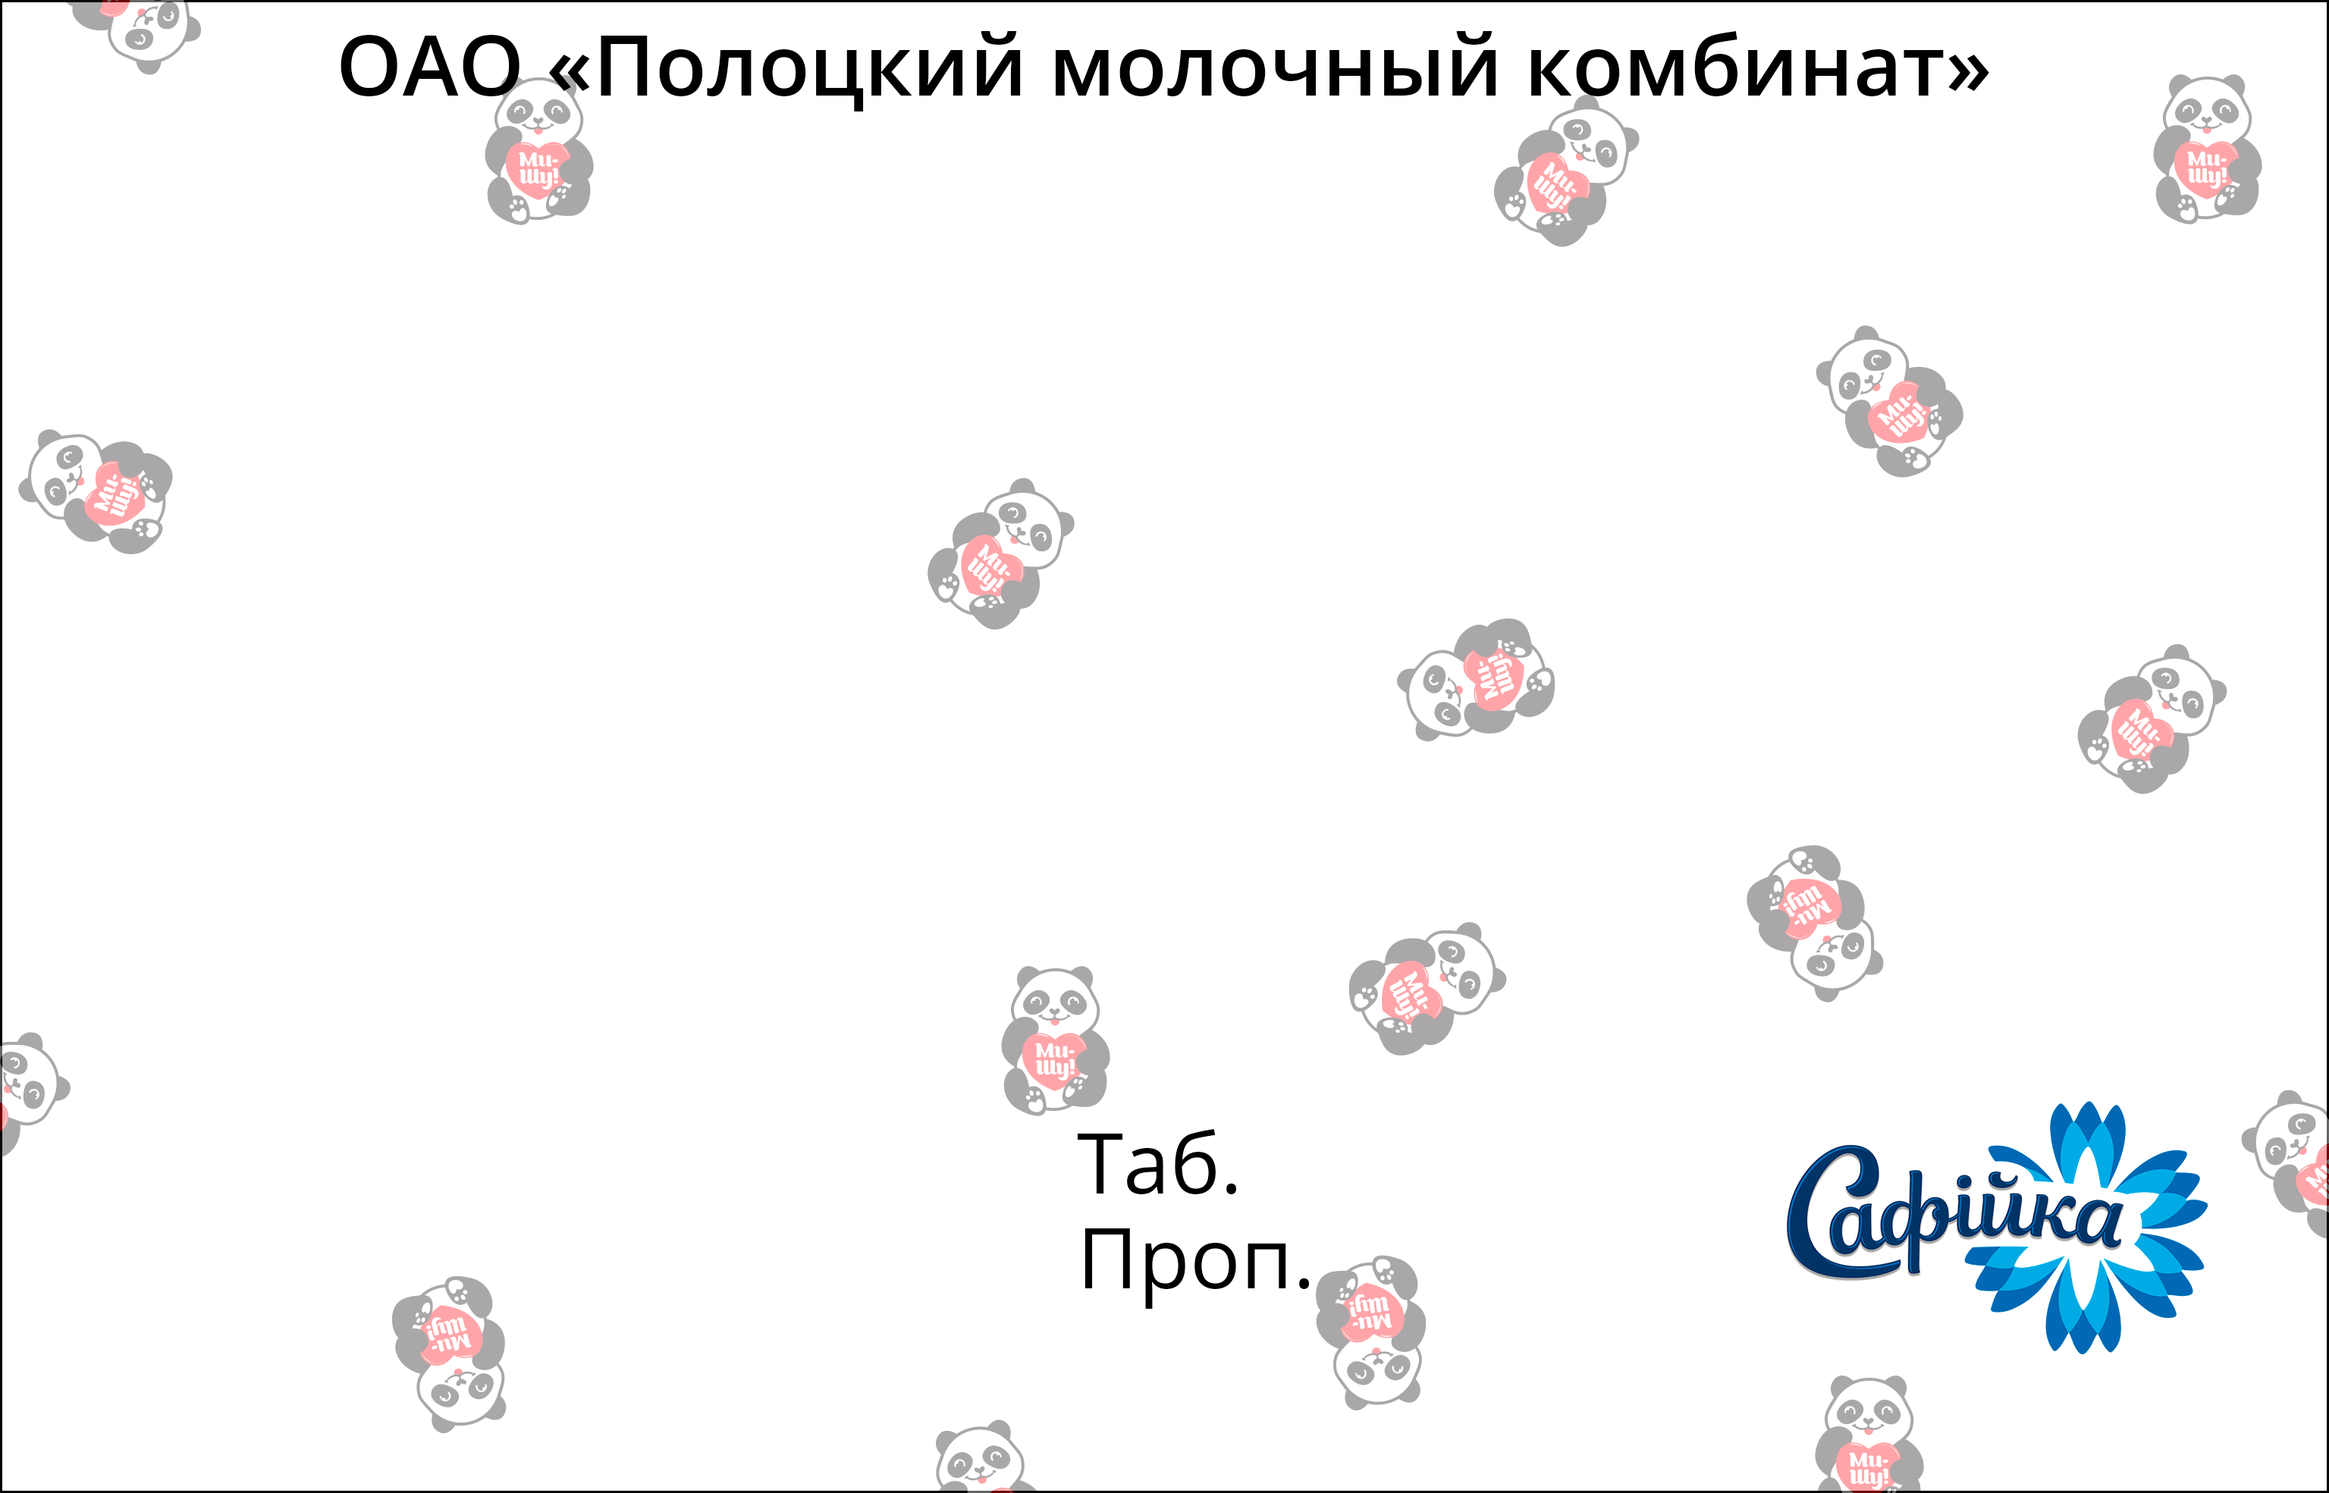
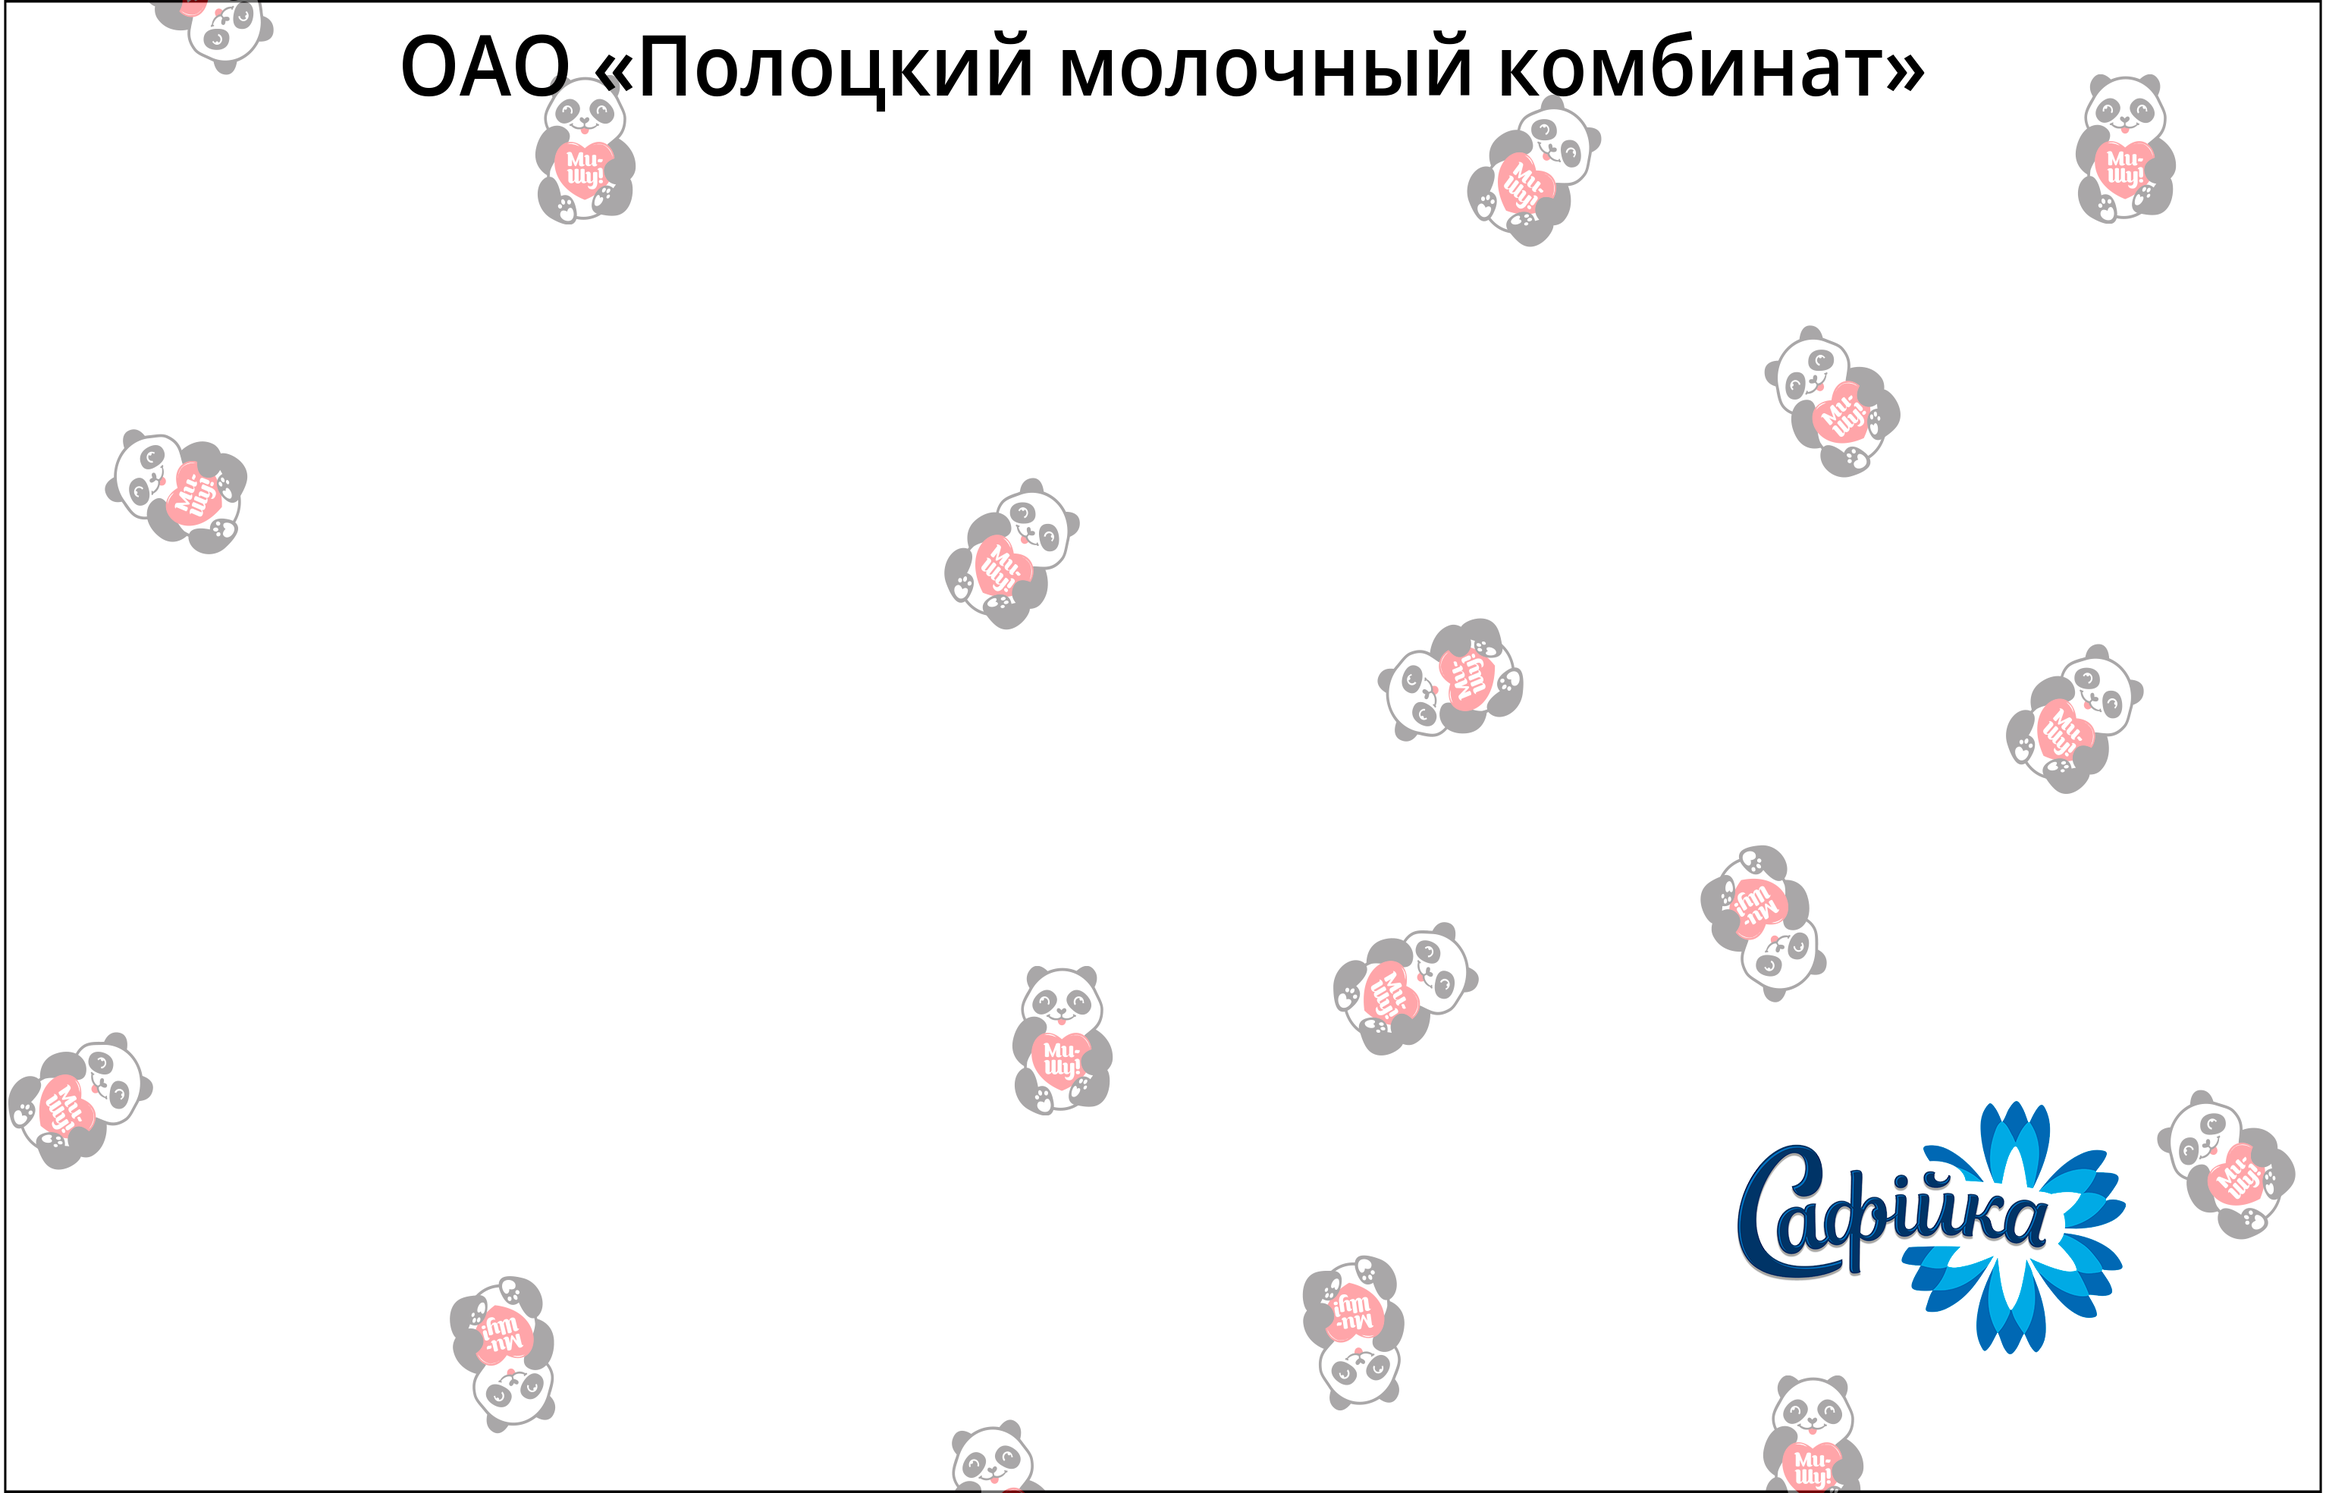
some improvements

diff --git a/PassCreatorApp/PassCreator.xaml b/PassCreatorApp/PassCreator.xaml
@@ -4,30 +4,36 @@
         xmlns:d="http://schemas.microsoft.com/expression/blend/2008"
         xmlns:mc="http://schemas.openxmlformats.org/markup-compatibility/2006"
         xmlns:local="clr-namespace:PassCreatorApp" 
-        d:DataContext="{d:DesignInstance Type=local:PassCreatorViewModel}"
         mc:Ignorable="d"
         ResizeMode="CanMinimize"
         Title="Создатель пропуска" 
-        Height="475" Width="640">
+        Height="460" Width="640">
     <Window.Resources>
         <BooleanToVisibilityConverter x:Key="BooleanToVisibilityConverter" />
     </Window.Resources>
     <StackPanel>
-        <StackPanel Orientation="Horizontal">
-            <Button Content="Создать..." FontSize="15" FontFamily="{StaticResource OpenSansBold}" Height="25" Width="100" Margin="10,5,10,5" Command="{Binding NewPassCommand}" />
-            <Button Content="Сохранить..." FontSize="15" FontFamily="{StaticResource OpenSansBold}" Height="25" Width="100" Margin="10,5,10,5" Command="{Binding SaveAsCommand}" />
-        </StackPanel>
-        <Canvas Height="393.8" Width="614.2">
-            <Image Source="/Resources/PassBase.png" Height="393.8" Width="614.2" />
-            <Button Canvas.Left="24" Canvas.Top="39.4" Command="{Binding GetImageCommand}">
-                <Image Source="{Binding Photo}" Height="316" Width="236" />
+        <Menu Height="25" VerticalAlignment="Top">
+            <MenuItem Header="Файл">
+                <MenuItem Header="Новый" Command="{Binding NewPassCommand}" />
+                <MenuItem Header="Сохранить как..." Command="{Binding SaveAsCommand}" />
+            </MenuItem>
+            <MenuItem Header="Вид">
+                <MenuItem Header="Вкл/выкл табельный номер" Command="{Binding ToggleEmployeeNumberCommand}" />
+            </MenuItem>
+        </Menu>
+        <Canvas Height="393.8" Width="611.4">
+            <Image Source="/Resources/PassBase.png" Height="393.8" Width="611.4" />
+            <Button Canvas.Left="25" Canvas.Top="39.4" Command="{Binding GetImageCommand}">
+                <Image Source="{Binding Photo}" Height="315" Width="236" />
             </Button>
-            <TextBox Text="{Binding LastName}" HorizontalAlignment="Left" VerticalContentAlignment="Center" Width="300" Height="30" FontSize="30" FontFamily="{StaticResource OpenSansBold}" Canvas.Left="284" Canvas.Top="62.4" TabIndex="1" />
-            <TextBox Text="{Binding FirstName}" HorizontalAlignment="Left" VerticalContentAlignment="Center" Width="300" Height="30" FontSize="30" FontFamily="{StaticResource OpenSansBold}" Canvas.Left="284" Canvas.Top="96.8" TabIndex="2" />
-            <TextBox Text="{Binding SecondName}" HorizontalAlignment="Left" VerticalContentAlignment="Center" Width="300" Height="30" FontSize="30" FontFamily="{StaticResource OpenSansBold}" Canvas.Left="284" Canvas.Top="131.4" TabIndex="3" />
-            <TextBox Text="{Binding Post}" TextWrapping="Wrap" AcceptsReturn="True" HorizontalAlignment="Left" Width="300" Height="70" FontSize="30" FontFamily="{StaticResource OpenSansBold}" Canvas.Left="284" Canvas.Top="193.2" TabIndex="4" />
-            <TextBox Text="{Binding Path=EmployeeNumber}" HorizontalAlignment="Left" VerticalContentAlignment="Center" MaxLength="5" Width="85" Height="23" FontSize="20" FontFamily="{StaticResource OpenSansRegular}" Canvas.Left="368" Canvas.Top="295.6" TabIndex="5" />
-            <TextBox Text="{Binding PassNumber}" HorizontalAlignment="Left" VerticalContentAlignment="Center" MaxLength="5" Width="85" Height="23" FontSize="20" FontFamily="{StaticResource OpenSansRegular}" Canvas.Left="368" Canvas.Top="320.6" TabIndex="6" />
+            <TextBox Text="{Binding LastName}" Background="Transparent" HorizontalAlignment="Left" VerticalContentAlignment="Center" Width="317" Height="30" FontSize="30" FontFamily="{StaticResource OpenSansBold}" Canvas.Left="284" Canvas.Top="62" TabIndex="1" VerticalAlignment="Center" />
+            <TextBox Text="{Binding FirstName}" Background="Transparent" HorizontalAlignment="Left" VerticalContentAlignment="Center" Width="317" Height="30" FontSize="30" FontFamily="{StaticResource OpenSansBold}" Canvas.Left="284" Canvas.Top="97" TabIndex="2" VerticalAlignment="Center" />
+            <TextBox Text="{Binding SecondName}" Background="Transparent" HorizontalAlignment="Left" VerticalContentAlignment="Center" Width="317" Height="30" FontSize="30" FontFamily="{StaticResource OpenSansBold}" Canvas.Left="284" Canvas.Top="131" TabIndex="3" VerticalAlignment="Center" />
+            <TextBox Text="{Binding Post}" Background="Transparent" TextWrapping="Wrap" AcceptsReturn="True" HorizontalAlignment="Left" Width="317" Height="70" FontSize="30" FontFamily="{StaticResource OpenSansBold}" Canvas.Left="284" Canvas.Top="193" TabIndex="4" VerticalAlignment="Center" />
+            <TextBlock Text="Таб." Visibility="{Binding IsEmployeeNumberSwitchedOn, Converter={StaticResource BooleanToVisibilityConverter}}" HorizontalAlignment="Left" Width="85" Height="23" FontSize="20" FontFamily="{StaticResource OpenSansRegular}" Canvas.Left="284" Canvas.Top="295.6" />
+            <TextBox Text="{Binding EmployeeNumber, UpdateSourceTrigger=PropertyChanged}" Background="Transparent" Visibility="{Binding IsEmployeeNumberSwitchedOn, Converter={StaticResource BooleanToVisibilityConverter}}" HorizontalAlignment="Left" VerticalContentAlignment="Center" Width="94" Height="23" FontSize="20" FontFamily="{StaticResource OpenSansRegular}" Canvas.Left="348" Canvas.Top="296" TabIndex="5" VerticalAlignment="Center" />
+            <TextBlock Text="Проп." HorizontalAlignment="Left" Width="85" Height="23" FontSize="20" FontFamily="{StaticResource OpenSansRegular}" Canvas.Left="284" Canvas.Top="320.6" />
+            <TextBox Text="{Binding PassNumber, UpdateSourceTrigger=PropertyChanged}" Background="Transparent" HorizontalAlignment="Left" VerticalContentAlignment="Center" Width="94" Height="23" FontSize="20" FontFamily="{StaticResource OpenSansRegular}" Canvas.Left="348" Canvas.Top="321" TabIndex="6" VerticalAlignment="Center" />
         </Canvas>
     </StackPanel>
 </Window>

diff --git a/PassCreatorApp/Commands/SaveAsCommand.cs b/PassCreatorApp/Commands/SaveAsCommand.cs
@@ -38,26 +38,42 @@ namespace PassCreatorApp.Commands
                     throw new ArgumentException("Необходимо выбрать фотографию работника");
                 }
 
-                var passBase = new Bitmap(Bitmap.FromFile(@"Resources\PassBase.png"));
+                var passBaseImage = new BitmapImage(new Uri("pack://application:,,,/Resources/PassBase.png"));
+                Bitmap passBase;
+                using (MemoryStream outStream = new MemoryStream())
+                {
+                    var enc = new BmpBitmapEncoder();
+                    enc.Frames.Add(BitmapFrame.Create(passBaseImage));
+                    enc.Save(outStream);
+                    var bitmap = new Bitmap(outStream);
+                    passBase = new Bitmap(bitmap);
+                }
+
                 var ResultBitmap = new Bitmap(passBase.Width, passBase.Height);
-                var photo = new Bitmap(Bitmap.FromFile((_vm.Photo as BitmapImage).UriSource.LocalPath), 1182, 1577);
-                var resizedPhoto = new Bitmap(1182, 1577);
+                var photo = new Bitmap(Bitmap.FromFile((_vm.Photo as BitmapImage).UriSource.LocalPath), 1181, 1575);
+                var resizedPhoto = new Bitmap(1181, 1575);
                 var graphics = Graphics.FromImage(resizedPhoto);
                 graphics.InterpolationMode = InterpolationMode.High;
                 graphics.CompositingMode = CompositingMode.SourceOver;
                 var textFont = new Font("OpenSansBold", 110F, System.Drawing.FontStyle.Bold);
                 var drawBrush = new SolidBrush(Color.Black);
-                graphics.DrawImage(photo, 0, 0, 1182, 1577);
+                graphics.DrawImage(photo, 0, 0, 1181, 1575);
                 graphics = Graphics.FromImage(ResultBitmap);
                 graphics.DrawImage(passBase, 0, 0);
-                graphics.DrawImage(resizedPhoto, 120, 197);
-                graphics.DrawRectangle(new Pen(drawBrush), 120, 197, 1181, 1576);
+                graphics.DrawImage(resizedPhoto, 186, 197);
+                graphics.DrawRectangle(new Pen(drawBrush), 185, 196, 1182, 1576);
                 graphics.DrawString(_vm.LastName, textFont, drawBrush, 1420, 312);
                 graphics.DrawString(_vm.FirstName, textFont, drawBrush, 1420, 484);
                 graphics.DrawString(_vm.SecondName, textFont, drawBrush, 1420, 657);
                 graphics.DrawString(_vm.Post, textFont, drawBrush, 1420, 966);
                 textFont = new Font("OpenSansRegular", 85F, System.Drawing.FontStyle.Regular);
-                graphics.DrawString(_vm.EmployeeNumber, textFont, drawBrush, 1840, 1478);
+                if (_vm.IsEmployeeNumberSwitchedOn)
+                {
+                    graphics.DrawString("Таб.", textFont, drawBrush, 1420, 1478);
+                    graphics.DrawString(_vm.EmployeeNumber, textFont, drawBrush, 1840, 1478);
+                }
+
+                graphics.DrawString("Проп.", textFont, drawBrush, 1420, 1603);
                 graphics.DrawString(_vm.PassNumber, textFont, drawBrush, 1840, 1603);
                 var sfd = new SaveFileDialog
                 {

diff --git a/PassCreatorApp/PassCreatorViewModel.cs b/PassCreatorApp/PassCreatorViewModel.cs
@@ -17,8 +17,10 @@ namespace PassCreatorApp
         private string _post;
         private string _employeeNumber;
         private string _passNumber;
+        private bool _isEmployeeNumberSwitchedOn;
         public ICommand NewPassCommand { get; }
         public ICommand SaveAsCommand { get; }
+        public ICommand ToggleEmployeeNumberCommand { get; }
         public ICommand GetImageCommand { get; }
         public event PropertyChangedEventHandler? PropertyChanged;
 
@@ -78,9 +80,10 @@ namespace PassCreatorApp
             set
             {
                 _employeeNumber = value;
-                if (_employeeNumber[0] != '№')
+                if (_employeeNumber.Length > 0 && _employeeNumber[0] != '№')
                 {
-                    _employeeNumber = string.Concat("№", _employeeNumber.AsSpan(0,4));
+                    _employeeNumber = _employeeNumber.Replace("№", "");
+                    _employeeNumber = string.Concat("№", _employeeNumber.AsSpan(0));
                 }
 
                 OnPropertyChanged();
@@ -93,12 +96,37 @@ namespace PassCreatorApp
             set
             {
                 _passNumber = value;
-                if (_passNumber[0] != '№')
+                if (_passNumber.Length > 0 && _passNumber[0] != '№')
                 {
-                    _passNumber = string.Concat("№", _passNumber.AsSpan(0, 4));
+                    _passNumber = _passNumber.Replace("№", "");
+                    _passNumber = string.Concat("№", _passNumber.AsSpan(0));
                 }
 
                 OnPropertyChanged();
+            }
+        }
+
+        public string ToggleEmployeeNumberButtonText
+        {
+            get
+            {
+                if (_isEmployeeNumberSwitchedOn)
+                {
+                    return "Отключить табельный номер";
+                }
+
+                return "Включить табельный номер";
+            }
+        }
+
+        public bool IsEmployeeNumberSwitchedOn
+        {
+            get { return _isEmployeeNumberSwitchedOn; }
+            set
+            {
+                _isEmployeeNumberSwitchedOn = value;
+                OnPropertyChanged();
+                OnPropertyChanged(ToggleEmployeeNumberButtonText);
             }
         }
 
@@ -107,9 +135,11 @@ namespace PassCreatorApp
             Photo = new BitmapImage(new Uri("/Resources/AvatarTemplate.png", UriKind.Relative));
             NewPassCommand = new NewCommand(this);
             SaveAsCommand = new SaveAsCommand(this);
+            ToggleEmployeeNumberCommand = new ToggleEmployeeNumberCommand(this);
             GetImageCommand = new GetImageCommand(this);
             EmployeeNumber = "№";
             PassNumber = "№";
+            IsEmployeeNumberSwitchedOn = true;
         }
 
         private void OnPropertyChanged([CallerMemberName] string property = "")

diff --git a/PassCreatorApp/Commands/ToggleEmployeeNumberCommand.cs b/PassCreatorApp/Commands/ToggleEmployeeNumberCommand.cs
@@ -1,0 +1,31 @@
+using System;
+using System.Windows.Input;
+
+namespace PassCreatorApp.Commands
+{
+    public class ToggleEmployeeNumberCommand : ICommand
+    {
+        private PassCreatorViewModel _vm;
+
+        public ToggleEmployeeNumberCommand(PassCreatorViewModel vm)
+        {
+            _vm = vm;
+        }
+
+        public bool CanExecute(object? parameter)
+        {
+            return true;
+        }
+
+        public event EventHandler? CanExecuteChanged
+        {
+            add { CommandManager.RequerySuggested += value; }
+            remove { CommandManager.RequerySuggested -= value; }
+        }
+
+        public void Execute(object? parameter)
+        {
+            _vm.IsEmployeeNumberSwitchedOn = !_vm.IsEmployeeNumberSwitchedOn;
+        }
+    }
+}
